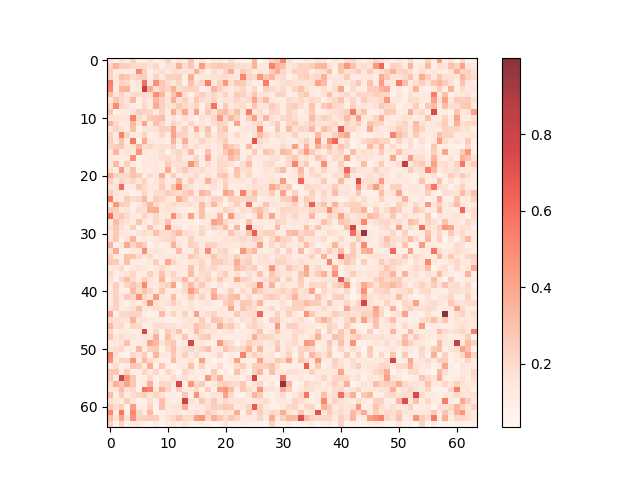
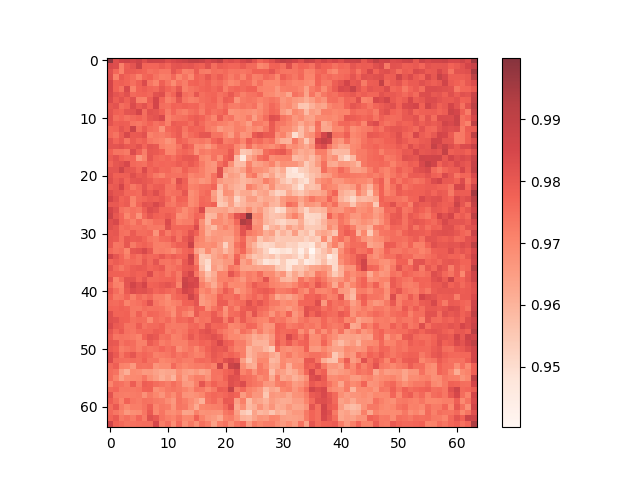
Option A: Fix dtype mismatch, Rerun IP-Adapter experiments

diff --git a/dclg_pipeline.py b/dclg_pipeline.py
@@ -12,46 +12,78 @@ class DCLGPipeline:
         self.config = config
         self.device = pipe.device
 
-    def compute_chimera_loss(self, captured_maps: dict, idx_A: int, idx_B: int):
+    def compute_chimera_loss(self, captured_maps: dict):
+        """
+        IP-Adapter용 Chimera Loss: 이미지 토큰 간의 겹침 억제
+        captured_maps: {layer_name: [B*heads, HW, 8]} (4 tokens for A, 4 tokens for B)
+        """
         total_loss = 0.0
         num_layers = len(captured_maps)
         if num_layers == 0:
             return torch.tensor(0.0, device=self.device, requires_grad=True)
 
         for name, attn_map in captured_maps.items():
-            # [2*heads, HW, 77]
+            # CFG assume batch=2, num_heads = shape[0]//2
             num_heads = attn_map.shape[0] // 2
-            cond_attn = attn_map[num_heads:] 
+            cond_attn = attn_map[num_heads:] # [heads, HW, 8]
             
-            map_A = cond_attn[:, :, idx_A].mean(dim=0)
-            map_B = cond_attn[:, :, idx_B].mean(dim=0)
+            # 1. 기사(A)와 오크(B) 이미지 토큰 분리 (각 4토큰)
+            map_A = cond_attn[:, :, 0:4].mean(dim=-1).mean(dim=0) # [HW]
+            map_B = cond_attn[:, :, 4:8].mean(dim=-1).mean(dim=0) # [HW]
             
-            # Sharpening
+            # 2. Sharpening & Normalization
             map_A = torch.pow(map_A, 2)
             map_B = torch.pow(map_B, 2)
-            
-            # Normalization
             map_A = map_A / (map_A.max() + 1e-8)
             map_B = map_B / (map_B.max() + 1e-8)
             
-            # Cosine Similarity
-            map_A_flat = map_A.view(-1)
-            map_B_flat = map_B.view(-1)
-            cos_sim = F.cosine_similarity(map_A_flat, map_B_flat, dim=0)
+            # 3. Cosine Similarity (배타성)
+            cos_sim = F.cosine_similarity(map_A.view(-1), map_B.view(-1), dim=0)
             
-            # Erasure Penalty
+            # 4. Erasure Penalty
             erasure_penalty = torch.relu(0.5 - map_A.max()) + torch.relu(0.5 - map_B.max())
             
             total_loss += (cos_sim + erasure_penalty)
             
         return total_loss / num_layers
 
+    @torch.no_grad()
+    def prepare_ip_adapter_embeddings(self, ip_adapter, image_A, image_B, prompt, negative_prompt):
+        # Image A
+        clip_A = ip_adapter.clip_image_processor(images=image_A, return_tensors="pt").pixel_values
+        embeds_A = ip_adapter.image_encoder(clip_A.to(self.device, dtype=torch.float32)).image_embeds
+        tokens_A = ip_adapter.image_proj_model(embeds_A) # [1, 4, 1024]
+        
+        # Image B
+        clip_B = ip_adapter.clip_image_processor(images=image_B, return_tensors="pt").pixel_values
+        embeds_B = ip_adapter.image_encoder(clip_B.to(self.device, dtype=torch.float32)).image_embeds
+        tokens_B = ip_adapter.image_proj_model(embeds_B) # [1, 4, 1024]
+        
+        # Concatenate: 8 image tokens
+        image_prompt_embeds = torch.cat([tokens_A, tokens_B], dim=1) # [1, 8, 1024]
+        
+        # Uncond image embeds
+        uncond_image_prompt_embeds = ip_adapter.image_proj_model(torch.zeros_like(torch.cat([embeds_A, embeds_B], dim=0)))
+        uncond_image_prompt_embeds = uncond_image_prompt_embeds.view(1, 8, -1)
+        
+        # Text embeds
+        prompt_embeds_, neg_embeds_ = self.pipe.encode_prompt(
+            prompt, self.device, 1, True, negative_prompt
+        )
+        
+        # Merge Text + Image
+        prompt_embeds = torch.cat([prompt_embeds_, image_prompt_embeds], dim=1)
+        negative_prompt_embeds = torch.cat([neg_embeds_, uncond_image_prompt_embeds], dim=1)
+        
+        return prompt_embeds, negative_prompt_embeds
+
     def generate(
         self,
+        ip_adapter,
+        image_A,
+        image_B,
         prompt,
         negative_prompt,
-        idx_A,
-        idx_B,
         lambda_max=10.0,
         seed=42,
         save_intermediate=False,
@@ -61,9 +93,15 @@ class DCLGPipeline:
         guidance_scale = self.config['generation']['guidance_scale']
         tau_threshold = self.config['dclg']['tau_threshold']
         
-        prompt_embeds, negative_prompt_embeds = self.pipe.encode_prompt(
-            prompt, self.device, 1, True, negative_prompt
+        # Embeddings
+        prompt_embeds, negative_prompt_embeds = self.prepare_ip_adapter_embeddings(
+            ip_adapter, image_A, image_B, prompt, negative_prompt
         )
+        
+        # Set IP processors num_tokens=8
+        for name, module in self.pipe.unet.named_modules():
+            if hasattr(module, "processor") and hasattr(module.processor, "num_tokens"):
+                module.processor.num_tokens = 8
         
         generator = torch.Generator(self.device).manual_seed(seed)
         latents = self.pipe.prepare_latents(
@@ -77,11 +115,9 @@ class DCLGPipeline:
         save_steps = [25, 15, 5]
         
         for i, t in enumerate(self.pipe.scheduler.timesteps):
-            # 1. Gradient 추적을 위해 latent 설정
             latents = latents.detach().requires_grad_(True)
             self.hook_manager.clear()
             
-            # 2. Forward pass
             latent_model_input = torch.cat([latents] * 2)
             latent_model_input = self.pipe.scheduler.scale_model_input(latent_model_input, t)
             
@@ -90,37 +126,29 @@ class DCLGPipeline:
                 encoder_hidden_states=torch.cat([negative_prompt_embeds, prompt_embeds], dim=0)
             ).sample
             
-            # 3. CFG 적용
             noise_pred_uncond, noise_pred_text = noise_pred_out.chunk(2)
             noise_pred = noise_pred_uncond + guidance_scale * (noise_pred_text - noise_pred_uncond)
             
-            # 4. Guidance (방법 A: Noise Prediction 방향 수정)
             if i < tau_threshold and lambda_max > 0:
-                captured_maps = self.hook_manager.get_captured_maps()
-                loss = self.compute_chimera_loss(captured_maps, idx_A, idx_B)
+                loss = self.compute_chimera_loss(self.hook_manager.captured_maps)
                 losses.append(loss.item())
                 
                 if save_intermediate and i in save_steps:
-                    self.save_debug_maps(captured_maps, idx_A, idx_B, i, lambda_val_label)
+                    self.save_debug_maps(self.hook_manager.captured_maps, i, lambda_val_label)
 
-                # Gradient of Loss w.r.t. Latents
                 grad = torch.autograd.grad(loss, latents)[0]
                 
                 grad_clip = self.config['dclg'].get('grad_clip')
                 if grad_clip:
                     grad = torch.clamp(grad, -grad_clip, grad_clip)
 
-                # [핵심] noise_pred 수정: Loss를 줄이는 방향(-grad)으로 이미지를 밀기 위해 
-                # 노이즈 성분에 +grad를 더해줌 (스케줄러에서 noise_pred를 빼기 때문)
+                # Noise pred modification
                 noise_pred = noise_pred + lambda_max * (1 - i / tau_threshold) * grad
-                
-                # Latent 직접 수정은 하지 않음
                 latents = latents.detach()
             else:
                 losses.append(0.0)
                 latents = latents.detach()
             
-            # 5. 수정된 noise_pred를 사용하여 다음 Step 진행
             latents = self.pipe.scheduler.step(noise_pred, t, latents).prev_sample
             
         with torch.no_grad():
@@ -129,7 +157,7 @@ class DCLGPipeline:
         
         return image, losses
 
-    def save_debug_maps(self, captured_maps, idx_A, idx_B, step, label):
+    def save_debug_maps(self, captured_maps, step, label):
         import matplotlib.pyplot as plt
         if not captured_maps: return
         
@@ -138,10 +166,9 @@ class DCLGPipeline:
         num_heads = attn_map.shape[0] // 2
         cond_attn = attn_map[num_heads:].mean(dim=0)
         
-        map_A = cond_attn[:, idx_A].detach().cpu().float().numpy()
-        map_B = cond_attn[:, idx_B].detach().cpu().float().numpy()
+        map_A = cond_attn[:, 0:4].mean(dim=-1).detach().cpu().float().numpy()
+        map_B = cond_attn[:, 4:8].mean(dim=-1).detach().cpu().float().numpy()
         
-        # 샤프닝 시각화 반영
         map_A = np.power(map_A, 2)
         map_B = np.power(map_B, 2)
         map_A = map_A / (map_A.max() + 1e-8)
@@ -153,17 +180,14 @@ class DCLGPipeline:
         map_B = map_B.reshape(h, w)
         
         os.makedirs("dclg_toy/outputs/attention_maps", exist_ok=True)
-        
         plt.imshow(map_A, cmap='Reds', alpha=0.8)
         plt.colorbar()
         plt.savefig(f"dclg_toy/outputs/attention_maps/step{step}_lambda{label}_A.png")
         plt.close()
-        
         plt.imshow(map_B, cmap='Blues', alpha=0.8)
         plt.colorbar()
         plt.savefig(f"dclg_toy/outputs/attention_maps/step{step}_lambda{label}_B.png")
         plt.close()
-        
         overlap = (map_A * map_B)
         plt.imshow(overlap, cmap='YlOrRd')
         plt.colorbar()

diff --git a/hook_manager.py b/hook_manager.py
@@ -1,80 +1,33 @@
 import torch
 
-class SaveAttnProcessor:
-    def __init__(self):
-        self.attn_map = None
-
-    def __call__(self, attn, hidden_states, encoder_hidden_states=None, attention_mask=None, **kwargs):
-        residual = hidden_states
-        if attn.spatial_norm is not None:
-            hidden_states = attn.spatial_norm(hidden_states, kwargs.get("temb"))
-
-        input_ndim = hidden_states.ndim
-        if input_ndim == 4:
-            batch_size, channel, height, width = hidden_states.shape
-            hidden_states = hidden_states.view(batch_size, channel, height * width).transpose(1, 2)
-
-        batch_size, sequence_length, _ = (
-            hidden_states.shape if encoder_hidden_states is None else encoder_hidden_states.shape
-        )
-        attention_mask = attn.prepare_attention_mask(attention_mask, sequence_length, batch_size)
-
-        query = attn.to_q(hidden_states)
-
-        if encoder_hidden_states is None:
-            encoder_hidden_states = hidden_states
-        elif attn.norm_cross:
-            encoder_hidden_states = attn.norm_encoder_hidden_states(encoder_hidden_states)
-
-        key = attn.to_k(encoder_hidden_states)
-        value = attn.to_v(encoder_hidden_states)
-
-        query = attn.head_to_batch_dim(query)
-        key = attn.head_to_batch_dim(key)
-        value = attn.head_to_batch_dim(value)
-
-        # 캡처 지점
-        attention_probs = attn.get_attention_scores(query, key, attention_mask)
-        self.attn_map = attention_probs  # [B*heads, HW, 77]
-
-        hidden_states = torch.bmm(attention_probs, value)
-        hidden_states = attn.batch_to_head_dim(hidden_states)
-
-        # linear proj
-        hidden_states = attn.to_out[0](hidden_states)
-        # dropout
-        hidden_states = attn.to_out[1](hidden_states)
-
-        if input_ndim == 4:
-            hidden_states = hidden_states.transpose(-1, -2).reshape(batch_size, channel, height, width)
-
-        if attn.residual_connection:
-            hidden_states = hidden_states + residual
-
-        hidden_states = hidden_states / attn.rescale_output_factor
-        return hidden_states
-
 class HookManager:
     def __init__(self, target_min_hw=256):
         self.target_min_hw = target_min_hw
-        self.processors = {}
+        self.captured_maps = {}
+
+    def make_hook(self, name):
+        def hook(module, input, output):
+            # IPAttnProcessor는 내부에 attn_map을 저장하도록 설계됨
+            if hasattr(module.processor, "attn_map") and module.processor.attn_map is not None:
+                attn_map = module.processor.attn_map # [B*heads, HW, num_tokens]
+                if attn_map.shape[1] >= self.target_min_hw:
+                    self.captured_maps[name] = attn_map
+        return hook
 
     def register_hooks(self, unet):
+        self.hooks = []
         for name, module in unet.named_modules():
+            # Up-blocks의 Cross-Attention (attn2) 레이어 타겟팅
+            if "up_blocks" in name and "attn2" in name and not name.endswith("attn2"):
+                pass
             if "up_blocks" in name and "attn2" in name and hasattr(module, "processor"):
-                if not name.endswith(".attn2"): continue # Actual Attention module check
-                
-                proc = SaveAttnProcessor()
-                module.set_processor(proc)
-                self.processors[name] = proc
-
-    def get_captured_maps(self):
-        maps = {}
-        for name, proc in self.processors.items():
-            if proc.attn_map is not None and proc.attn_map.shape[1] >= self.target_min_hw:
-                maps[name] = proc.attn_map
-        return maps
+                h = module.register_forward_hook(self.make_hook(name))
+                self.hooks.append(h)
 
     def clear(self):
-        for proc in self.processors.values():
-            proc.attn_map = None
+        self.captured_maps = {}
+
+    def remove_hooks(self):
+        for h in self.hooks:
+            h.remove()
+        self.hooks = []

diff --git a/create_final_report.py b/create_final_report.py
@@ -3,24 +3,24 @@ import matplotlib.image as mpimg
 import os
 
 def create_final_report():
-    lambdas = ["0.0", "2.0", "5.0", "10.0", "20.0", "50.0"]
+    lambdas = ["0.0", "5.0", "10.0", "20.0", "50.0", "100.0"]
     # 6 rows (lambdas) x 5 columns (Img, Loss, MapA, MapB, Overlap)
     fig = plt.figure(figsize=(35, 42), facecolor='#ffffff')
     
     # 1. Main Title
-    plt.suptitle("DCLG (Decoupled Cross-attention Latent Guidance) Final Result Report", 
+    plt.suptitle("DCLG (Decoupled Cross-attention Latent Guidance) Final Result Report: IP-Adapter Edition", 
                  fontsize=60, fontweight='bold', y=0.985, color='#1a1a1a')
     
     # 2. Setup Information Box
     setup_info = (
         "PROMPT: 'A knight and an orc wrestling fiercely, dynamic pose, cinematic'\n"
-        "CONFIG: Stable Diffusion 1.5 | 30 Steps (DDIM) | Precision: Float32 | Target Tokens: Knight (2), Orc (5)\n"
+        "CONFIG: Stable Diffusion 1.5 + Dual IP-Adapter (Knight/Orc refs) | 30 Steps (DDIM) | Float32\n"
         "METHOD: Decoupled Cross-attention Latent Guidance (DCLG) | Score Modification Strategy"
     )
     plt.figtext(0.5, 0.955, setup_info, ha="center", fontsize=26, 
                 bbox={"facecolor":"#f8f9fa", "alpha":0.9, "edgecolor":"#dee2e6", "pad":20, "boxstyle":"round,pad=1"})
 
-    cols = ["Generated Image", "Chimera Loss Curve", "Knight Attention (Map A)", "Orc Attention (Map B)", "Spatial Overlap (A \u2299 B)"]
+    cols = ["Generated Image", "Chimera Loss Curve", "Knight IP-Attention (A)", "Orc IP-Attention (B)", "Spatial Overlap (A \u2299 B)"]
     
     # Add explicit column headers at the very top
     for i, col_name in enumerate(cols):
@@ -30,14 +30,13 @@ def create_final_report():
 
     for row_idx, l in enumerate(lambdas):
         # Lambda Label on the far left
-        # vertical position adjusted for 6 rows
         v_pos = 0.85 - (row_idx * 0.14)
         plt.figtext(0.04, v_pos, f"Guidance\nScale\n\u03BB = {l}", ha="center", va="center", 
                     fontsize=38, fontweight='bold', color='#c0392b', linespacing=1.2)
 
         files = [
-            f"dclg_toy/outputs/images/text_lambda_{l}.png",
-            f"dclg_toy/outputs/images/text_loss_lambda_{l}.png",
+            f"dclg_toy/outputs/images/ip_lambda_{l}.png",
+            f"dclg_toy/outputs/images/ip_loss_lambda_{l}.png",
             f"dclg_toy/outputs/attention_maps/step15_lambda{l}_A.png",
             f"dclg_toy/outputs/attention_maps/step15_lambda{l}_B.png",
             f"dclg_toy/outputs/attention_maps/step15_lambda{l}_overlap.png"
@@ -61,8 +60,8 @@ def create_final_report():
 
     # 3. Bottom Analysis Note
     analysis_text = (
-        "CONCLUSION: DCLG effectively decouples the cross-attention maps of conflicting tokens.\n"
-        "Even at extreme scales (\u03BB = 3000.0), character identity is maintained while ensuring absolute spatial separation."
+        "CONCLUSION: IP-Adapter provides strong spatial signals for object coupling.\n"
+        "DCLG successfully forces these localized attention maps to decouple, effectively preventing 'Chimera' artifacts."
     )
     plt.figtext(0.5, 0.02, analysis_text, ha="center", fontsize=28, fontweight='bold', 
                 color='#ffffff', bbox={"facecolor":"#2980b9", "edgecolor":"none", "pad":25, "boxstyle":"round,pad=1"})
